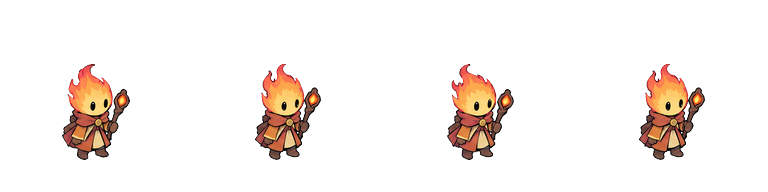
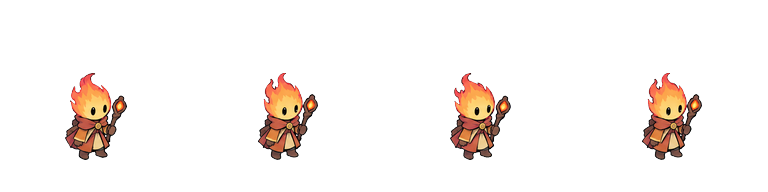
Art: fire mage re-cut at 80 percent of the hero; the board measures her from the game frames

diff --git a/tools/art/char_board.py b/tools/art/char_board.py
@@ -69,6 +69,8 @@ def main():
     hero = Image.open("game/art/source/characters/lead/lead_stand_se.png").convert("RGBA")
     mage = Image.open("game/art/source/characters/fire_mage/fire_mage_stand_se.png").convert("RGBA")
     k = 2.0
+    hh, mh = (trim_alpha(i) for i in (hero, mage))
+    pct = round((mh[3] - mh[1]) / (hh[3] - hh[1]) * 100)  # measured on the frames the game draws, never a separate scale
     ground = y + area_h - 70
     for i, im in enumerate((hero, mage)):
         big = im.resize((round(im.width * k), round(im.height * k)), Image.LANCZOS)
@@ -76,7 +78,7 @@ def main():
         board.paste(big, (cx - big.width // 2, ground - round(160 * k)), big)  # feet at frame y 160
     d.line([x + 30, ground, x + PW - 30, ground], fill=INK, width=2)
     d.text((x + PW // 4 - 40, ground + 10), "HERO", fill=INK, font=font(28))
-    d.text((x + 3 * PW // 4 - 40, ground + 10), "SMALLER", fill=INK, font=font(28))
+    d.text((x + 3 * PW // 4 - 80, ground + 10), f"{pct} PER CENT", fill=INK, font=font(28))
     out = Path("art/templates/characters/char_board.png")
     board.save(out)
     print(out)

diff --git a/docs/art/ART-LOG.md b/docs/art/ART-LOG.md
@@ -82,7 +82,7 @@ Add a row for each new batch: date, tool, prompt file, model, count, cost if kno
 | 2026-10-30 | Backpack icon for the pack button (replaces the sack): six variations run by Brandon from `hand-backpack` (`art/picsart/out/hand/backpack_brandon.png`); he picked the top right (rolled blanket and a lantern on the side), cut with `props_cut.py --icon 128` to `game/art/source/icons/backpack.png`, no review card (his pick was the stamp; nothing clipped) | by hand | `art/prompts/hand-backpack.txt` | GPT image, 2K, 3:2 | 1 picture | his subscription | go: Brandon (`backpack-icon-go`) |
 | 2026-10-30 | Village v2 small props: headstone, grave mound with cross, iron fence section, crop rows, reeds, rowboat, one sheet run by Brandon from `hand-village-v2-small` (`art/picsart/out/hand/village_small_brandon.png`), cut with `props_cut.py` (256 px tall) to `art/picsart/out/hand/village_small_cut/`; **approved 2026-10-30 (`village-small-review`)** and in the game as `game/art/source/battle/village/prop_headstone, prop_grave_mound, prop_iron_fence, prop_crops, prop_reeds, prop_rowboat.png` (not yet placed on a map). The headstone and crops are bulky for one tile, so the builder may scale them. The big landmarks (windmill, boathouse, crypt gate, dock) are still a go card (`village-big-go`) | by hand | `art/prompts/hand-village-v2-small.txt` | GPT image, 2K, 3:2 | 1 picture | his subscription | go: Brandon |
 | 2026-10-30 | Village v2 landmarks: windmill, boathouse, crypt gate, dock, one sheet run by Brandon from `hand-village-v2-big` (`art/picsart/out/hand/village_big_brandon.png`), cut with `props_cut.py` (256 px tall) to `art/picsart/out/hand/village_big_cut/`; **approved 2026-10-30 (`village-big-review`)** and in the game as `game/art/source/battle/village/prop_windmill, prop_boathouse, prop_crypt_gate, prop_dock.png` (not yet placed). Grid check (`prop_iso_check.py`): dock passes (32 / 29), boathouse (42 / 28) and crypt gate (40 / 38) are drawn steeper than 2:1, windmill is round so unreadable; Brandon approved them anyway. The four small props that failed the check are parked (`village-props-redo-go`) | by hand | `art/prompts/hand-village-v2-big.txt` | GPT image, 2K, 3:2 | 1 picture | his subscription | go: Brandon |
-| 2026-10-31 | Fire mage (id `fire_mage`, she), SE animation sheet run by Brandon in his Picsart character workflow (`hand-character-workflow`: fixed part, character line, facing line, sprite grid template; `art/picsart/out/hand/fire_mage_se_brandon.png`, 2496 x 1664, flat magenta), cut with `anim_sheet_cut.py --bg magenta --blink 2 --height 82` (idle 4 with the blink inside it: blink strip plus idle 1 3 4 3, walk 6, attack 6, cast 6, hurt 2, down 2); **approved 2026-10-31 (`fire-mage-se-review`)**, scaled to about 88% of the hero (96 px against 109 to the top of the flame, feet on the anchor, per Brandon: "a bit more petite") and in the game as `game/art/source/characters/fire_mage/fire_mage_<anim>_se.png` plus `fire_mage.json`. The size is saved in the json (`height` 82) so S, E, NE and N cut to match. **NE added and approved 2026-10-31 (`fire-mage-ne-review`; the fire mage is complete as SE + NE)** (sheet run by Brandon, `art/picsart/out/hand/fire_mage_ne_brandon.png`, cut to the same 96 px, no blink strip as the face is turned away); hand-made characters are SE + NE only (decisions b672c5a), the game fills S, E and N from the nearest drawn facing | by hand | `art/prompts/hand-character-workflow.txt`, `art/templates/characters/sprite_grid.png` | GPT image, 2K+ , flat magenta | 1 picture (SE) | his subscription | go: Brandon |
+| 2026-10-31 | Fire mage (id `fire_mage`, she), SE animation sheet run by Brandon in his Picsart character workflow (`hand-character-workflow`: fixed part, character line, facing line, sprite grid template; `art/picsart/out/hand/fire_mage_se_brandon.png`, 2496 x 1664, flat magenta), cut with `anim_sheet_cut.py --bg magenta --blink 2 --height 82` (idle 4 with the blink inside it: blink strip plus idle 1 3 4 3, walk 6, attack 6, cast 6, hurt 2, down 2); **approved 2026-10-31 (`fire-mage-se-review`)**, scaled to about 88% of the hero, then re-cut at 80% on 2026-10-31 ("she should be like 80% height", 87 px against 109, `height` 74.3 in the json; NE at 78.4 to match) (96 px against 109 to the top of the flame, feet on the anchor, per Brandon: "a bit more petite") and in the game as `game/art/source/characters/fire_mage/fire_mage_<anim>_se.png` plus `fire_mage.json`. The size is saved in the json (`height` 82) so S, E, NE and N cut to match. **NE added and approved 2026-10-31 (`fire-mage-ne-review`; the fire mage is complete as SE + NE)** (sheet run by Brandon, `art/picsart/out/hand/fire_mage_ne_brandon.png`, cut to the same 96 px, no blink strip as the face is turned away); hand-made characters are SE + NE only (decisions b672c5a), the game fills S, E and N from the nearest drawn facing | by hand | `art/prompts/hand-character-workflow.txt`, `art/templates/characters/sprite_grid.png` | GPT image, 2K+ , flat magenta | 1 picture (SE) | his subscription | go: Brandon |
 | 2026-10-30 | Interior wall kit, flat textures for the board's wall kits (0f2070c): plaster, worn plaster, timber, window, doorway, wall-top beam, plank floor, worn planks, floor edge; two tries (`art/picsart/out/wall-kits/wallkit_interior_v1/_v2.png`), cut by `wall_kit_cut.py` into `cut_interior_v1`, `_v2`; repeating pieces made seamless by `seam_wrap.py`, picked set in `final_interior/`. Pick v1. The timber piece came out as a post on plaster | `picsart_sheet.py` | `art/prompts/sheet-wall-kit.txt` (interior ask) | GPT image (Picsart), 2K, 1:1 | 2 pictures | $0.28544 | go: Brandon (studio card `wall-kit-interior-go`, ceiling $0.30); all nine **approved** 2026-10-30 (review `wall-kit-interior-review`), in `game/art/source/battle/village_in/` (`wall_*.png`, and `top_stone`, `top_stone_b`, `side_masonry` replace the interior floor) |
 | 2026-10-30 | Dungeon wall kit in the stone of Brandon's dungeon pictures (`docs/art/references/dungeon-walls-target-1.png`, `-2.png`: big pale blocks, arches, short thick front walls, tall back walls): plain, cracked, corner pillar, arched doorway, capping, footing, flags, worn flags, floor edge; two tries (`wallkit_dungeon_v1/_v2.png`), cuts in `cut_dungeon_v1`, `_v2`, picked set in `final_dungeon/`. Pick v1. Courses don't line up between pieces; the pillar sits on wall | `picsart_sheet.py` | `art/prompts/sheet-wall-kit.txt` (dungeon ask) | GPT image (Picsart), 2K, 1:1 | 2 pictures | $0.28544 | go: Brandon (studio card `wall-kit-dungeon-go`, ceiling $0.30); all nine **approved** 2026-10-30 (review `wall-kit-dungeon-review`), in `game/art/source/battle/dungeon/` (`wall_*.png`, and `top_stone`, `top_stone_b`, `side_masonry` replace the dungeon floor) |
 | 2026-10-30 | The dog's reference sheet: Brandon's corgi (`docs/art/references/dog-corgi.png`) in a faded brick-red cloak, five facings and five actions (`art/picsart/out/dog/dog_reference_v1.png`), plus a portrait crop of his first view | `picsart_sheet.py` | `art/prompts/sheet-dog-reference.txt` | GPT image (Picsart), 1K, 3:2 | 1 picture | $0.05488 | go: Brandon (studio card `dog-concepts-go`, ceiling $0.06, answered with his corgi); sheet and portrait **approved** 2026-10-30 (review `dog-reference-review`): the sheet is the dog's key art at `docs/art/characters/dog-reference-sheet.png` (image 1 for his animation sheets), the portrait at `game/art/source/portraits/dog.png` |
